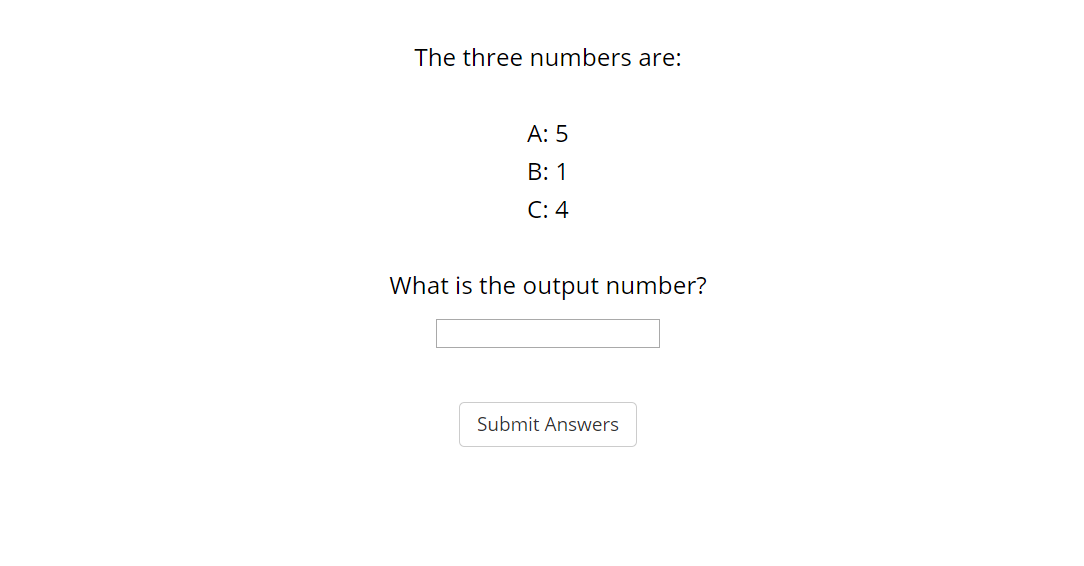
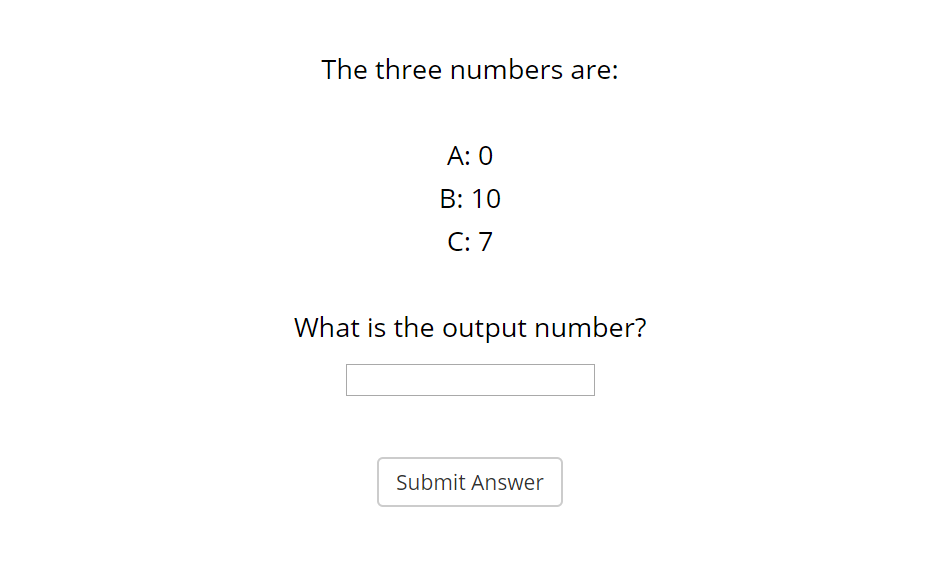
updated

diff --git a/jspsych-5.0.3/plugins/jspsych-survey-text-updated.js b/jspsych-5.0.3/plugins/jspsych-survey-text-updated.js
@@ -74,7 +74,7 @@ jsPsych.plugins['survey-text-updated'] = (function() {
       'id': 'jspsych-survey-text-next',
       'class': 'jspsych-btn jspsych-survey-text'
     }));
-    $("#jspsych-survey-text-next").html('Submit Answers');
+    $("#jspsych-survey-text-next").html('Submit Answer');
     var appended = false;
     $("#jspsych-survey-text-next").click(function() {
           // measure response time

diff --git a/index.html b/index.html
@@ -1,4 +1,4 @@
-
+ 
 <!doctype HTML>
 <html>
     <head>
@@ -18,4 +18,4 @@
     <body>
     </body>
     <script src="Scripts/js_practice_offline.js" type="text/javascript"></script>
- </html>   
+ </html>
